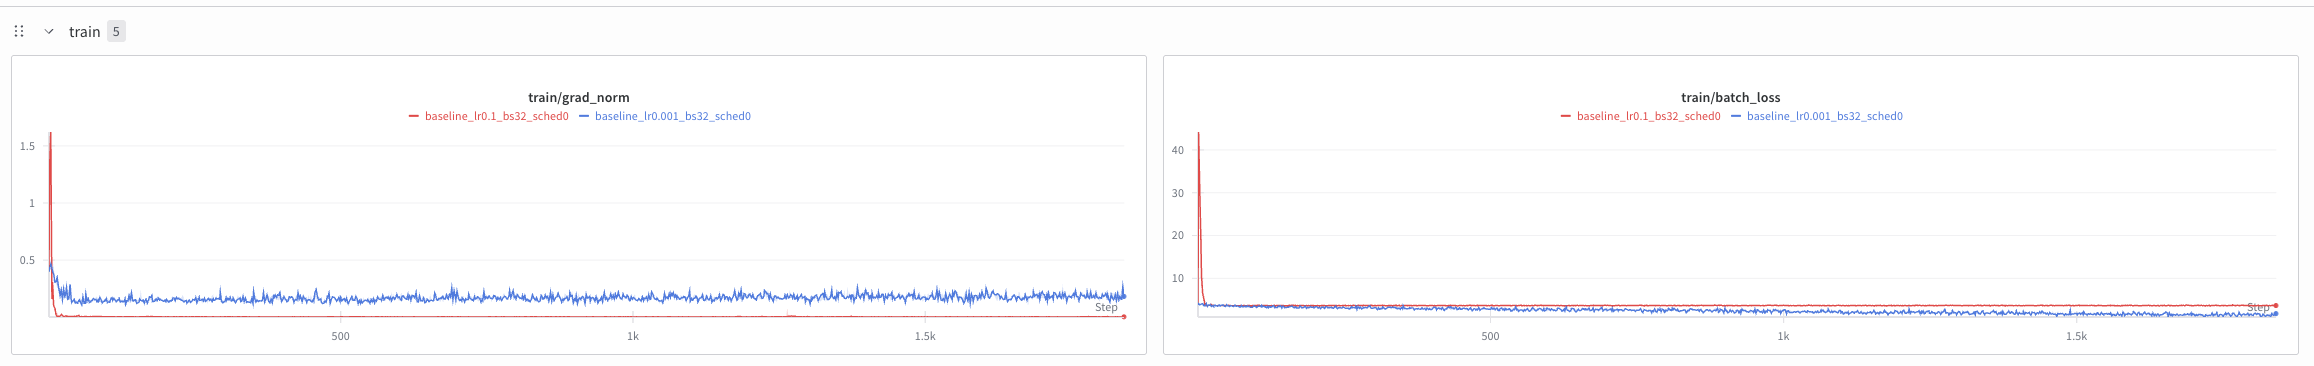
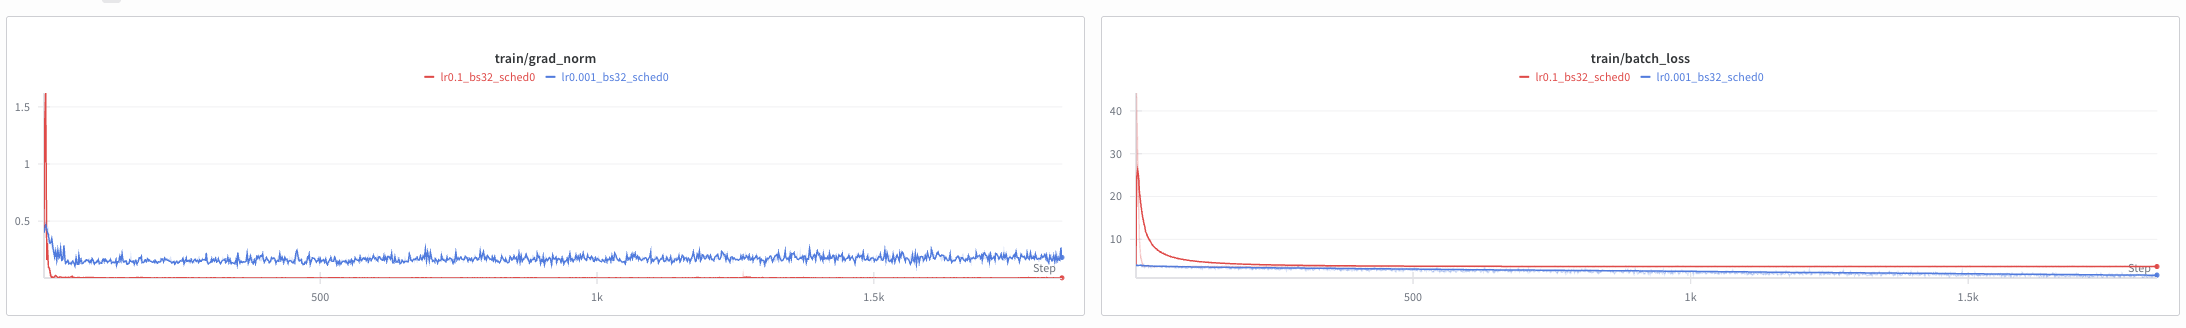
Refactor dataset loading and training configuration in HW1.tex and train.py; update sweep.yaml to adjust learning rate parameters; add new images for batch size and pretrained model analysis.

diff --git a/HW1.tex b/HW1.tex
@@ -161,37 +161,59 @@ Execute the experiment using the \textbf{default} setup (found in \texttt{get\_a
 
     Code snippet(s) completed to load the dataset:
 \begin{verbatim}
-    def build_split_dataset(dataset_root, selected_names, transform):
-        dataset = ImageFolder(root=dataset_root, transform=transform)
-        filtered_samples = [(path, target) for path, target in dataset.samples if Path(path).name in selected_names]
-        filtered_samples.sort(key=lambda entry: Path(entry[0]).name)
-        dataset.samples = filtered_samples
-        dataset.imgs = filtered_samples
-        dataset.targets = [target for _, target in filtered_samples]
-        return dataset
-    dataset_root = Path(__file__).resolve().parents[1] / "data"
-    metadata_path = Path(__file__).resolve().parent / "oxford_pet_split.csv"
-    metadata_frame = pl.read_csv(metadata_path)
-    train_names = set(metadata_frame.filter(pl.col("split") == "train").get_column("image_name").to_list())
-    val_names = set(metadata_frame.filter(pl.col("split") == "val").get_column("image_name").to_list())
-    test_names = set(metadata_frame.filter(pl.col("split") == "test").get_column("image_name").to_list())
-    normalization_mean = [0.485, 0.456, 0.406]
-    normalization_std = [0.229, 0.224, 0.225]
+def build_split_dataset(dataset_root, selected_names, transform):
+    dataset = ImageFolder(root=dataset_root, transform=transform)
+    filtered_samples = [
+        (path, target)
+        for path, target in dataset.samples
+        if Path(path).name in selected_names
+    ]
+    filtered_samples.sort(key=lambda entry: Path(entry[0]).name)
+    dataset.samples = filtered_samples
+    dataset.imgs = filtered_samples
+    dataset.targets = [target for _, target in filtered_samples]
+    return dataset
+dataset_root = Path(__file__).resolve().parents[1] / "data"
+metadata_path = Path(__file__).resolve().parent / "oxford_pet_split.csv"
+metadata_frame = pl.read_csv(metadata_path)
+train_names = set(
+    metadata_frame.filter(pl.col("split") == "train")
+    .get_column("image_name")
+    .to_list()
+)
+val_names = set(
+    metadata_frame.filter(pl.col("split") == "val")
+    .get_column("image_name")
+    .to_list()
+)
+test_names = set(
+    metadata_frame.filter(pl.col("split") == "test")
+    .get_column("image_name")
+    .to_list()
+)
+normalization_mean = [0.485, 0.456, 0.406]
+normalization_std = [0.229, 0.224, 0.225]
 
-    train_transforms = transforms.Compose([
-        transforms.Resize((224, 224)),
-        transforms.RandomHorizontalFlip(p=0.5),
-        transforms.ToTensor(),
-        transforms.Normalize(mean=normalization_mean, std=normalization_std),
-    ])
-    eval_transforms = transforms.Compose([
-        transforms.Resize((224, 224)),
-        transforms.ToTensor(),
-        transforms.Normalize(mean=normalization_mean, std=normalization_std),
-    ])
-    train_set = build_split_dataset(dataset_root, train_names, train_transforms)
-    val_set = build_split_dataset(dataset_root, val_names, eval_transforms)
-    test_set = build_split_dataset(dataset_root, test_names, eval_transforms)
+train_transforms = transforms.Compose([
+    transforms.Resize((224, 224)),
+    transforms.RandomHorizontalFlip(p=0.5),
+    transforms.ToTensor(),
+    transforms.Normalize(
+        mean=normalization_mean, std=normalization_std),
+])
+eval_transforms = transforms.Compose([
+    transforms.Resize((224, 224)),
+    transforms.ToTensor(),
+    transforms.Normalize(
+        mean=normalization_mean, std=normalization_std),
+])
+
+train_set = build_split_dataset(
+    dataset_root, train_names, train_transforms)
+val_set = build_split_dataset(
+    dataset_root, val_names, eval_transforms)
+test_set = build_split_dataset(
+    dataset_root, test_names, eval_transforms)
 \end{verbatim}
 
 Screenshot(s) of the experiment configuration:
@@ -323,6 +345,18 @@ Learning rate schedulers dynamically adjust the learning rate during training, i
 
 \begin{answerbox} \textbf{Answer:} \vspace*{1cm}
 
+
+Screenshot(s) of W\&B charts:
+
+\begin{figure}[h]
+    \centering
+    \includegraphics[width=0.8\textwidth]{images/scheduler.png}
+    \caption{Learning Rate Scheduler}
+\end{figure}
+
+\texttt{OneCycleLR} scheduler allows the learning rate to first rise and then fall, which helps the model remain stable in the early stages of training (preventing gradient explosion due to an excessively high learning rate) and converge quickly in the later stages (because reducing the learning rate after reaching near a local optimum makes it easier for the model to achieve a local optimum). The final results show that with a scheduler, the validation loss decreases faster, and the final loss is also smaller. The validation accuracy increases faster, and the final result is higher. On the test set, the accuracy with a scheduler is also higher, and the loss is lower. Overall, the effect of the scheduler is positive.
+
+
 \end{answerbox}
 
 
@@ -340,6 +374,25 @@ As observed in previous parts, the choice of learning rate is crucial for effect
 
 \begin{answerbox} \textbf{Answer:} \vspace*{1cm}
 
+
+Screenshot(s) of W\&B charts:
+
+\begin{figure}[h]
+    \centering
+    \includegraphics[width=0.8\textwidth]{images/batch_size.png}
+    \caption{Batch Size}
+\end{figure}
+
+Their pattern does not match the blog post. According to the blog post, when the batch size increases, the learning rate should increase. Since we are using Adam, the learning rate should increase by the square root of 2 times. However, in reality, after increasing the learning rate by the square root of 2 times, I did not see better validation and test accuracy compared to the default learning rate. I think there could be multiple factors; firstly, the model has not yet converged, and perhaps after convergence, the effect might be different. Secondly, these rules are just a theoretical optimal solution and can easily vary with different datasets and models.
+
+To verify my first hypothesis, I added a scheduler for all three conditions. Based on previous attempts, I know that with a scheduler, the model converges better than without one, and in the later stages of training, the validation loss decreases very slowly, almost leveling off. However, in this case, the condition with the increased learning rate still does not outperform the condition with the default learning rate. Therefore, although it is unfortunate, this assignment does not match the pattern described in the blog.
+
+\begin{figure}[h]
+    \centering
+    \includegraphics[width=0.8\textwidth]{images/batch_size_scheduler.png}
+    \caption{Batch Size with Scheduler}
+\end{figure}
+
 \end{answerbox}
 
 \subsection*{Part 4: Fine-Tuning a Pretrained Model (3 points)}
@@ -354,6 +407,17 @@ Fine-tuning leverages the knowledge of models trained on large datasets by adapt
 \end{itemize}
 
 \begin{answerbox} \textbf{Answer:} \vspace*{1cm}
+
+
+Screenshot(s) of W\&B charts:
+
+\begin{figure}[h]
+    \centering
+    \includegraphics[width=0.8\textwidth]{images/pretrained.png}
+    \caption{Pretrained Model}
+\end{figure}
+
+Pre-training allows the model to converge to a relatively better position at the beginning of training, making the subsequent training process more stable and resulting in higher final accuracy.
 
 \end{answerbox}
 

diff --git a/problem_1/train.py b/problem_1/train.py
@@ -66,7 +66,11 @@ def evaluate(model, data_loader, fabric):
 
 def build_split_dataset(dataset_root, selected_names, transform):
     dataset = ImageFolder(root=dataset_root, transform=transform)
-    filtered_samples = [(path, target) for path, target in dataset.samples if Path(path).name in selected_names]
+    filtered_samples = [
+        (path, target)
+        for path, target in dataset.samples
+        if Path(path).name in selected_names
+    ]
     filtered_samples.sort(key=lambda entry: Path(entry[0]).name)
     dataset.samples = filtered_samples
     dataset.imgs = filtered_samples
@@ -74,15 +78,16 @@ def build_split_dataset(dataset_root, selected_names, transform):
     return dataset
 
 def train_model(
-        run_name,
-        model,
-        batch_size,
-        epochs,
-        learning_rate,
-        device,
-        save_dir,
-        use_scheduler,
-        fabric,
+    run_name,
+    model,
+    batch_size,
+    epochs,
+    learning_rate,
+    device,
+    save_dir,
+    use_scheduler,
+    fabric,
+    pretrained,
 ):
     # TODO: Complete the code below to load the dataset; 
     # To do this you can make a custom Dataset class (torch.utils.data.Dataset) separately, which is passed here. 
@@ -94,9 +99,21 @@ def train_model(
     dataset_root = Path(__file__).resolve().parents[1] / "data"
     metadata_path = Path(__file__).resolve().parent / "oxford_pet_split.csv"
     metadata_frame = pl.read_csv(metadata_path)
-    train_names = set(metadata_frame.filter(pl.col("split") == "train").get_column("image_name").to_list())
-    val_names = set(metadata_frame.filter(pl.col("split") == "val").get_column("image_name").to_list())
-    test_names = set(metadata_frame.filter(pl.col("split") == "test").get_column("image_name").to_list())
+    train_names = set(
+        metadata_frame.filter(pl.col("split") == "train")
+        .get_column("image_name")
+        .to_list()
+    )
+    val_names = set(
+        metadata_frame.filter(pl.col("split") == "val")
+        .get_column("image_name")
+        .to_list()
+    )
+    test_names = set(
+        metadata_frame.filter(pl.col("split") == "test")
+        .get_column("image_name")
+        .to_list()
+    )
     normalization_mean = [0.485, 0.456, 0.406]
     normalization_std = [0.229, 0.224, 0.225]
 
@@ -111,8 +128,6 @@ def train_model(
         transforms.ToTensor(),
         transforms.Normalize(mean=normalization_mean, std=normalization_std),
     ])
-
-
 
     train_set = build_split_dataset(dataset_root, train_names, train_transforms)
     val_set = build_split_dataset(dataset_root, val_names, eval_transforms)
@@ -136,7 +151,7 @@ def train_model(
     if fabric.is_global_zero: # Used to operate only on the main process (if distributed training is used) # Used to only log on the main process (if distributed training is used)
         # Initialize a new wandb run and log experiment config parameters; don't forget the run name
         # you can also set run name to reflect key hyperparameters, such as learning rate, batch size, etc.: run_name = f'lr_{learning_rate}_bs_{batch_size}...'
-        descriptive_run_name = f"{run_name}_lr{learning_rate}_bs{batch_size}_sched{int(use_scheduler)}"
+        descriptive_run_name = f"lr{learning_rate}_bs{batch_size}_sched{int(use_scheduler)}_pretrained{int(pretrained)}"
         wandb_run = wandb.init(
             project=os.getenv("WANDB_PROJECT", "oxford_pet"),
             name=descriptive_run_name,
@@ -145,6 +160,7 @@ def train_model(
                 "learning_rate": learning_rate,
                 "batch_size": batch_size,
                 "use_scheduler": use_scheduler,
+                "pretrained": pretrained,
                 "optimizer": "Adam",
                 "model": "resnet18",
                 "n_train": n_train,
@@ -285,6 +301,9 @@ def get_args():
     parser.add_argument('--devices', type=int, default=1, help='Number of devices per node')
     parser.add_argument('--strategy', type=str, default='auto', help='Strategy: auto/ddp/fsdp, etc.')
     parser.add_argument('--precision', type=str, default='32-true', help='Precision: 32-true/16-mixed/bf16-mixed/64-true')
+    parser.add_argument(
+        "--pretrained", action="store_true", help="use pretrained model"
+    )
 
     # IMPORTANT: if you are copying this script to notebook, replace 'return parser.parse_args()' with 'args = parser.parse_args("")'
 
@@ -298,7 +317,12 @@ if __name__ == '__main__':
     # Initialize Fabric and launch distributed environment when applicable
     fabric = Fabric(accelerator=args.accelerator, devices=args.devices, strategy=args.strategy, precision=args.precision)
     fabric.launch()
-    model = resnet18(pretrained=False, num_classes=37)
+    if args.pretrained:
+        model = resnet18(pretrained=args.pretrained, num_classes=1000)
+        # replace the last layer
+        model.fc = nn.Linear(model.fc.in_features, 37)
+    else:
+        model = resnet18(pretrained=args.pretrained, num_classes=37)
     train_model(
         run_name=args.run_name,
         model=model,
@@ -309,4 +333,5 @@ if __name__ == '__main__':
         save_dir=args.save_dir,
         use_scheduler=args.use_scheduler,
         fabric=fabric,
+        pretrained=args.pretrained,
     )
